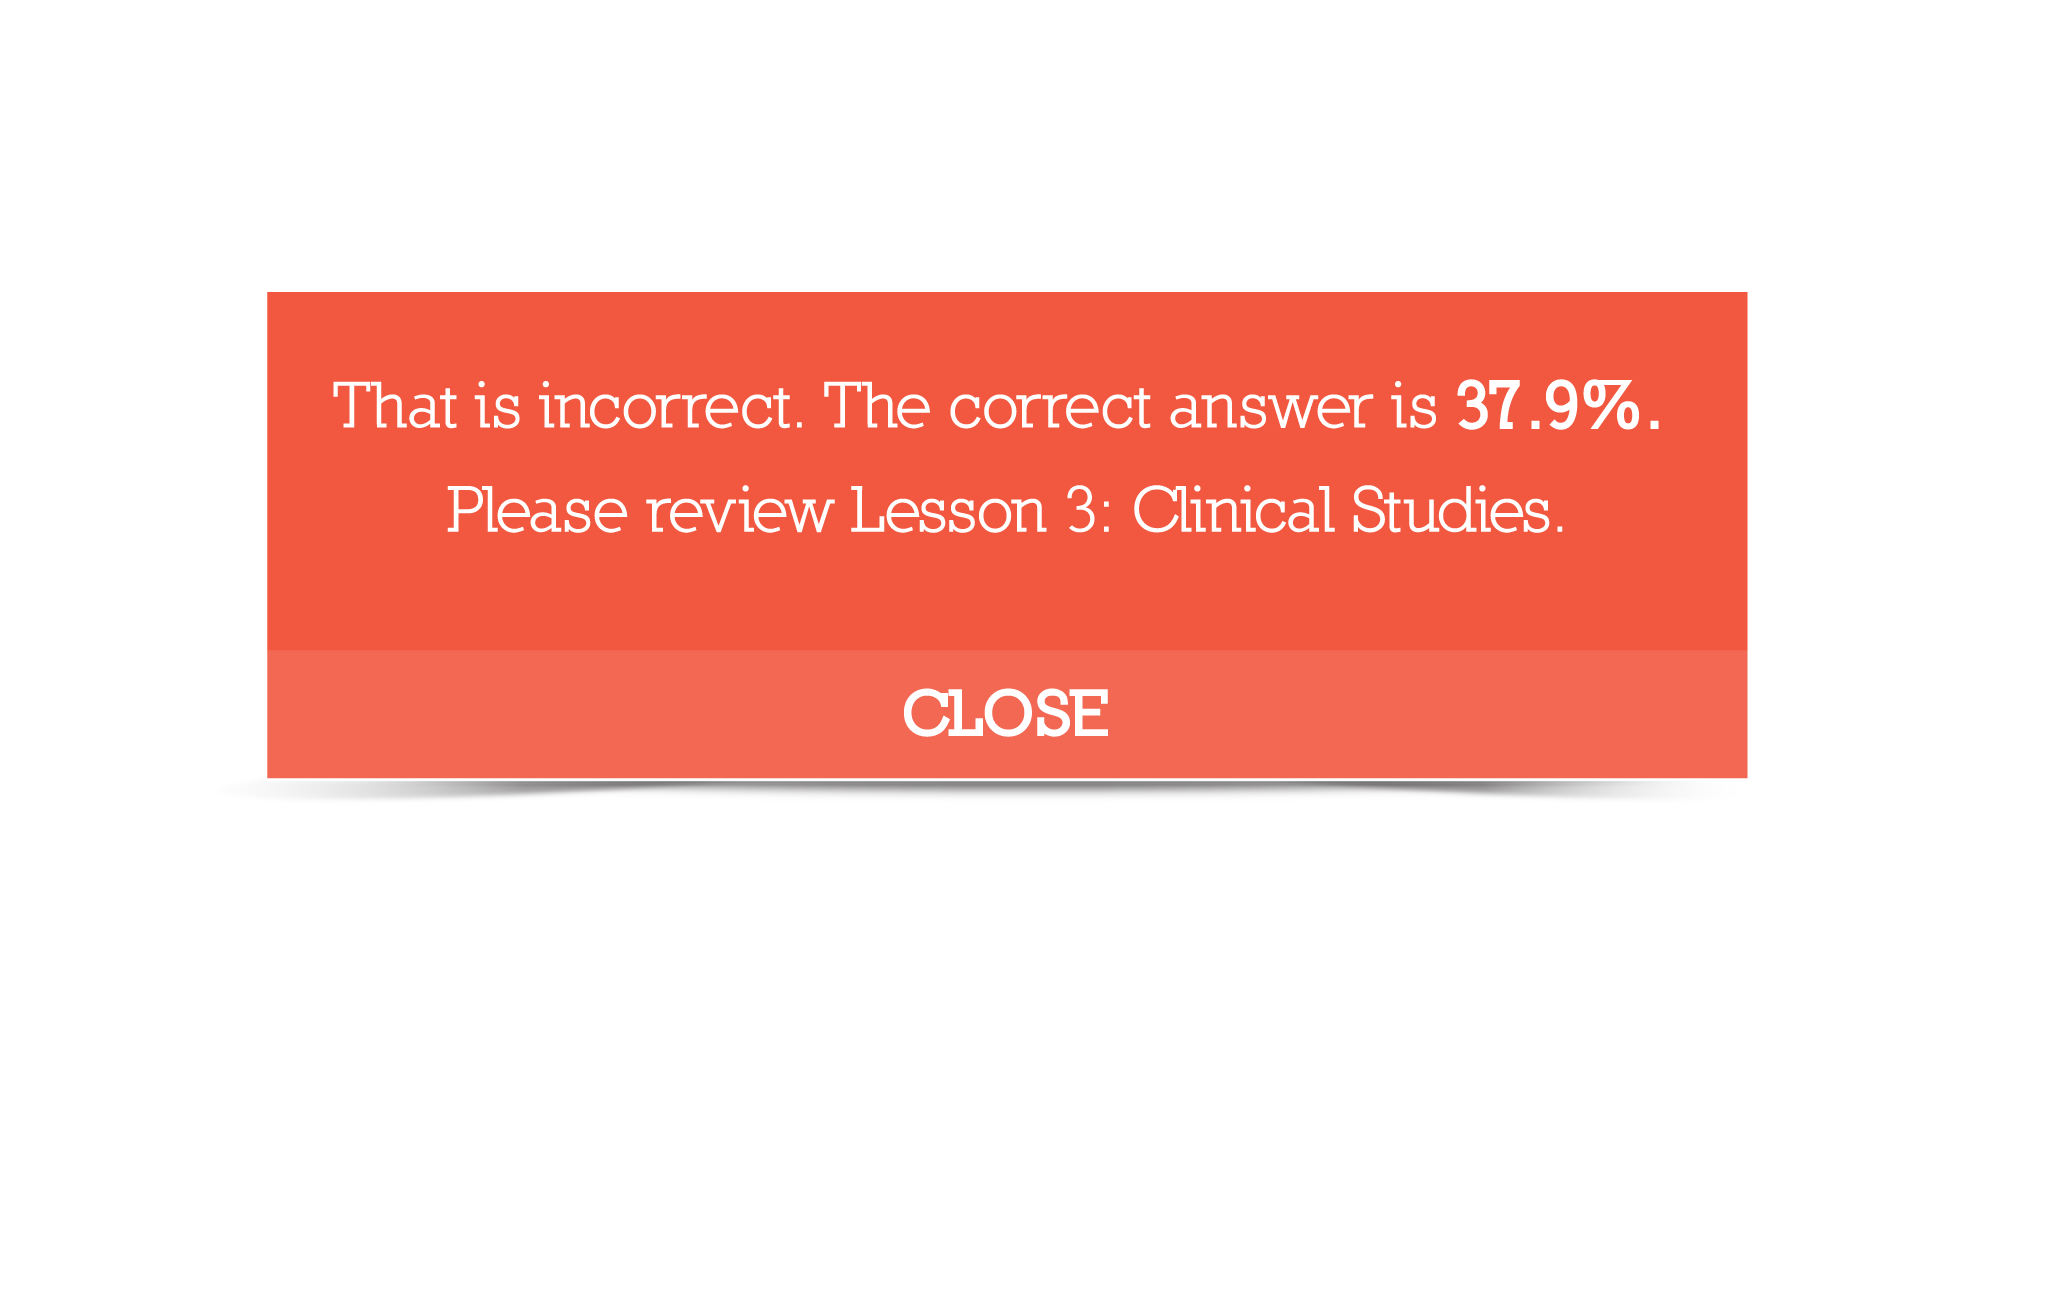
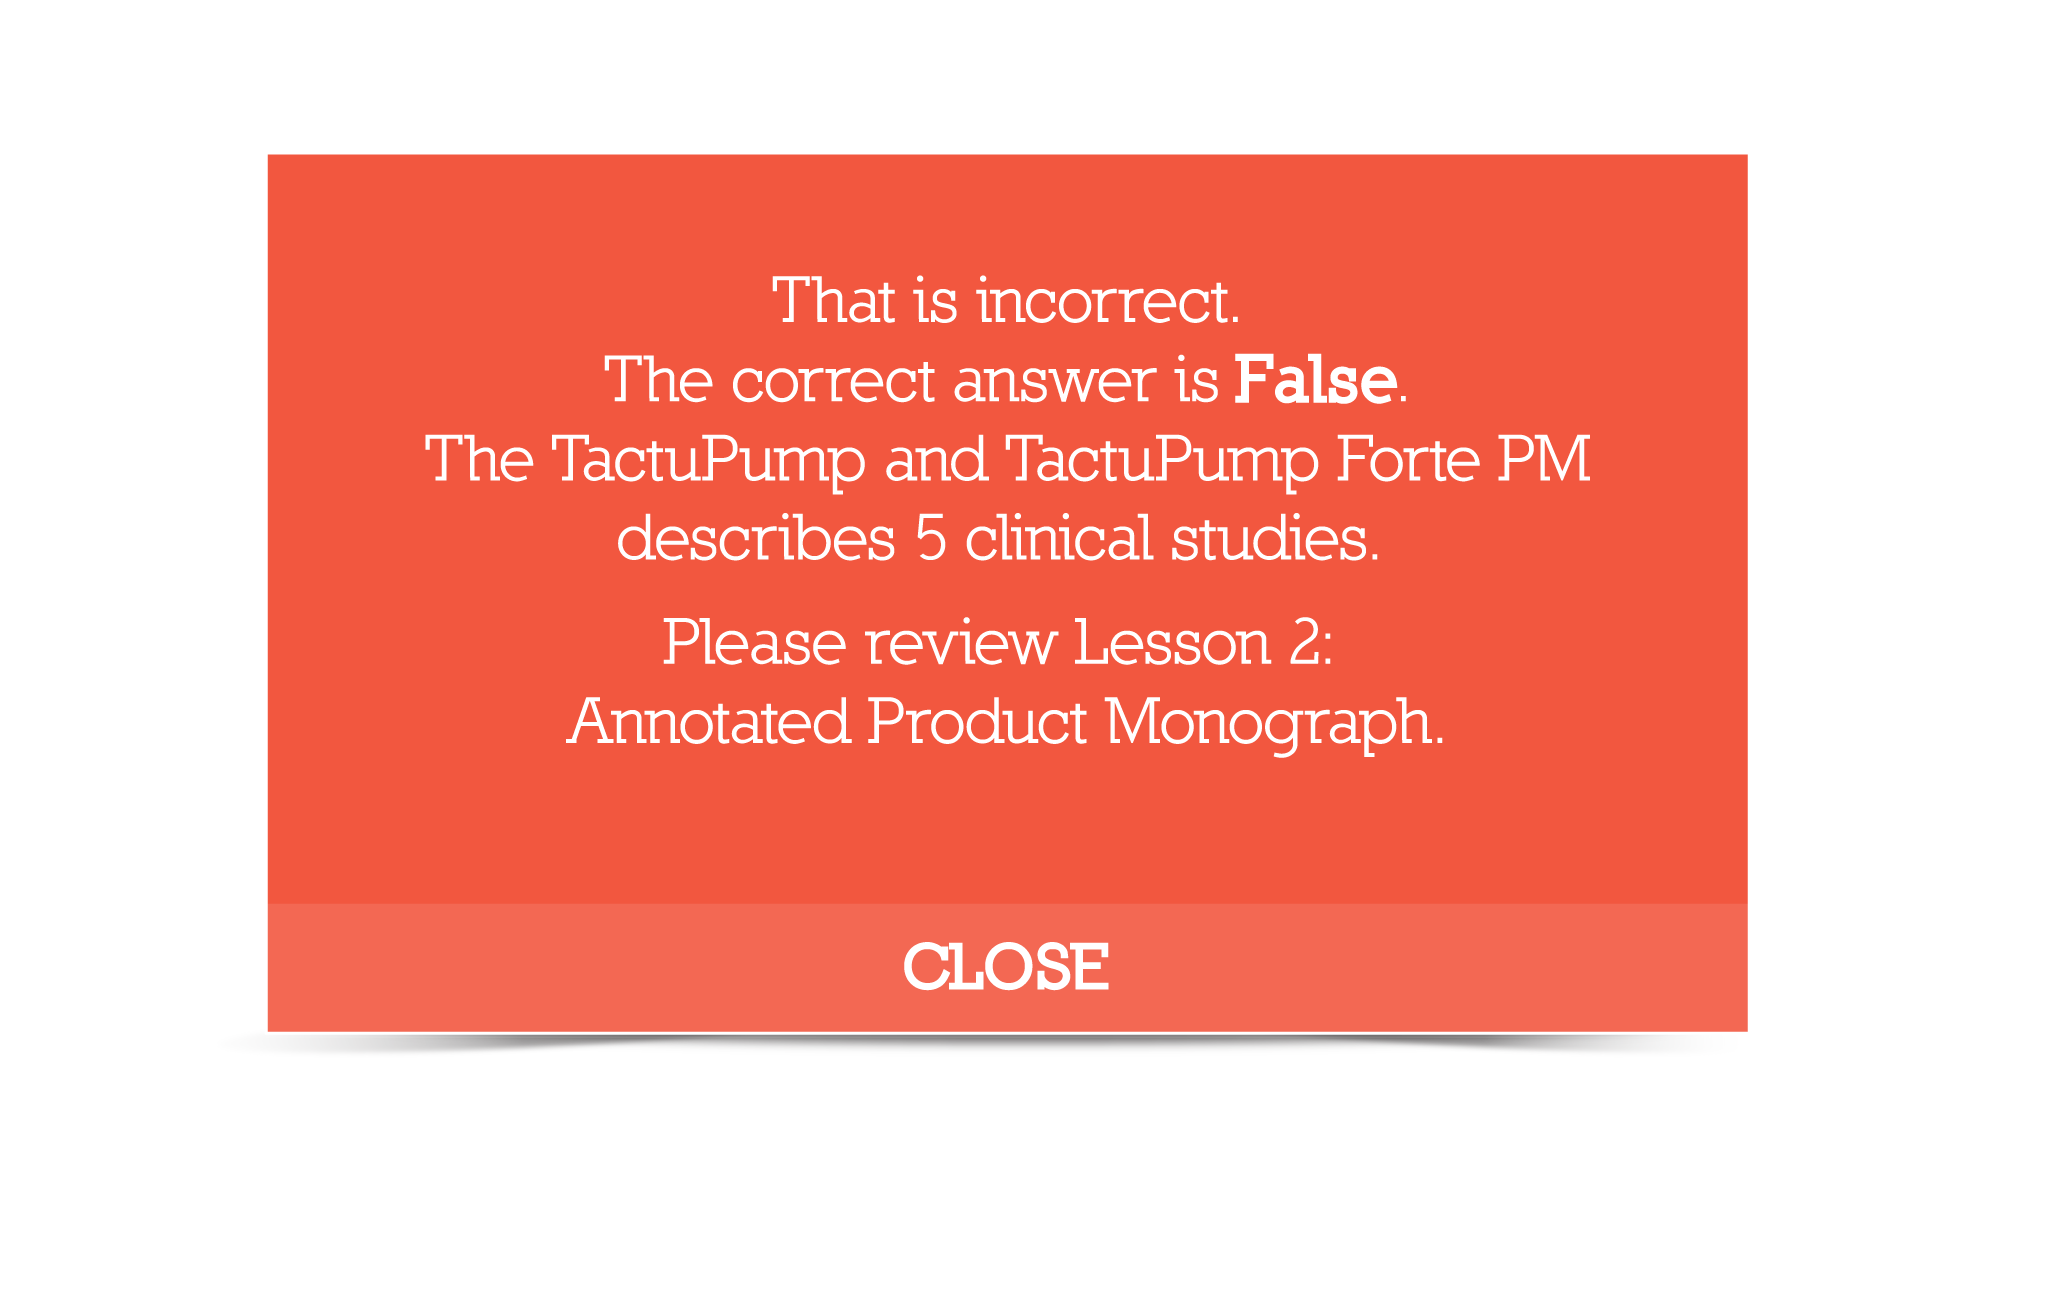
corrected assessment screen names

Changed region(s): [[0.1246, 0.4605, 0.872, 0.8289], [0.1246, 0.0921, 0.872, 0.4298]]

diff --git a/media/screens/M2L5S02/M2L5S02.html b/media/screens/M2L5S02/M2L5S02.html
@@ -1,9 +1,9 @@
 
-<div id='a' class='button checkBox checkMark' style='position:absolute; top:221px; left:97px; width:45px; height:45px;'></div>
+<div id='a' class='button checkBox checkMark' style='position:absolute; top:181px; left:97px; width:45px; height:45px;'></div>
 <div id='b' class='button checkBox checkMark' style='position:absolute; top:328px; left:97px; width:45px; height:45px;'></div>
 <div id='c' class='button checkBox checkMark' style='position:absolute; top:385px; left:97px; width:45px; height:45px;'></div>
 <div id='d' class='button checkBox checkMark' style='position:absolute; top:440px; left:97px; width:45px; height:45px;'></div>
 
 <img src="media/global/images/SubmitBtn.png" class='button submit' style="position:absolute; top:570px; left:400px; width: 200px; height: 65px;">
 
-<img id="incorrect2" style="display:none;" src="media/screens/M2L6S02/incorrect2.png">
+<img id="incorrect2" style="display:none;" src="media/screens/M2L5S02/incorrect2.png">
